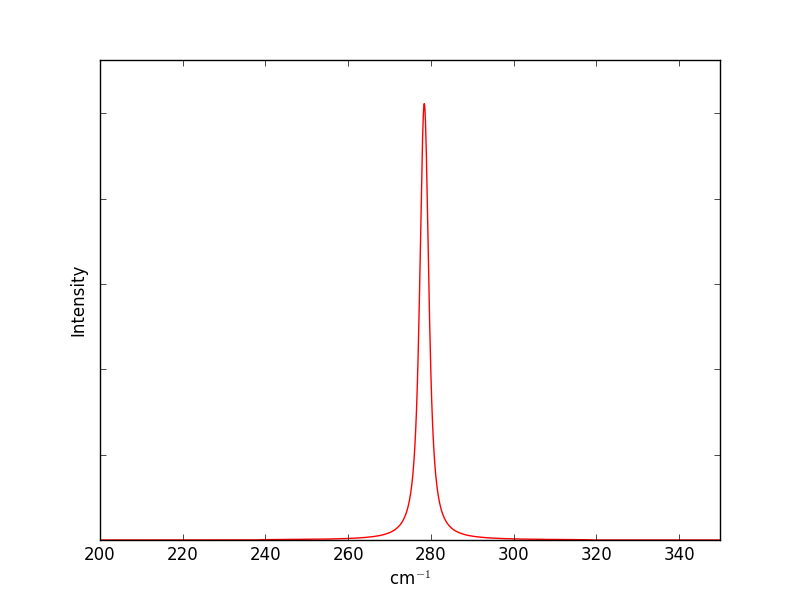
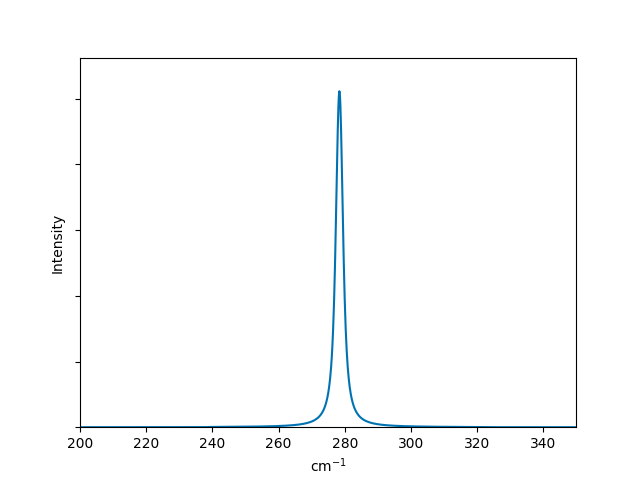
ENH: Allow user to select matplotlib style

diff --git a/galore/cli/galore.py b/galore/cli/galore.py
@@ -88,6 +88,9 @@ def pdos_from_files(return_plt=False, **kwargs):
     # For plotting and writing, "None" means "write to screen"
     # while False means "do nothing"
     if kwargs['plot'] or kwargs['plot'] is None:
+        if 'style' in kwargs and kwargs['style'] is not None:
+            import matplotlib.pyplot
+            matplotlib.pyplot.style.use(kwargs['style'])
         plt = galore.plot.plot_pdos(pdos_plotting_data,
                                     **kwargs)  # flipx is included in kwargs
 
@@ -154,6 +157,9 @@ def simple_dos_from_files(return_plt=False, **kwargs):
         if not has_matplotlib:
             print("Can't plot, no Matplotlib")
         else:
+            if 'style' in kwargs and kwargs['style'] is not None:
+                import matplotlib.pyplot
+                matplotlib.pyplot.style.use(kwargs['style'])
             plt = galore.plot.plot_tdos(x_values, broadened_data, **kwargs)
             if kwargs['ylabel'] is not None:
                 plt.ylabel(kwargs['ylabel'])
@@ -280,6 +286,11 @@ def get_parser():
         '--ymin', type=float, default=0, help='Minimum y axis value')
     parser.add_argument(
         '--ymax', type=float, default=None, help='Maximum y axis value')
+    parser.add_argument(
+        '--style', type=str, nargs='+', default=['seaborn-colorblind'],
+        help='Plotting style: a sequence of matplotlib styles and paths to '
+             'style files. The default palette is called "seaborn-colorblind".'
+        )
     parser.add_argument(
         '--overlay', type=str, default=None, help='Data file for overlay')
     parser.add_argument(

diff --git a/galore/cli/galore_plot_cs.py b/galore/cli/galore_plot_cs.py
@@ -53,6 +53,11 @@ def get_parser():
                         help="Output filename. If not given, plot to screen.")
     parser.add_argument('--fontsize', type=int, default=12,
                         help="Font size in pt")
+    parser.add_argument(
+        '--style', type=str, nargs='+', default=['seaborn-colorblind'],
+        help='Plotting style: a sequence of matplotlib styles and paths to '
+             'style files. The default palette is called "seaborn-colorblind".'
+        )
     parser.add_argument('elements', type=str, nargs='+', help="""
         Space-separated symbols for elements in material.""")
 
@@ -60,9 +65,12 @@ def get_parser():
 
 
 def run(elements, emin=1, emax=10, megabarn=False, size=None, output=None,
-        fontsize=10):
+        fontsize=10, style=None):
     energies = np.linspace(emin, emax, 200)
     cross_sections = get_cross_sections_scofield(energies, elements)
+
+    if style is not None:
+        plt.style.use(style)
 
     if size is None:
         fig = plt.figure()

diff --git a/galore/plot.py b/galore/plot.py
@@ -129,7 +129,6 @@ def plot_pdos(pdos_data, ax=None, total=True, show_orbitals=True,
     max_y = 0
 
     if ax is None:
-        plt.style.use("seaborn-colorblind")
         fig = plt.figure()
         ax = fig.add_subplot(1, 1, 1)
 
@@ -205,8 +204,6 @@ def plot_tdos(xdata, ydata, filename=None, ax=None, **kwargs):
     # Any unset kwargs will be seen as None
     kwargs = defaultdict((lambda: None), **kwargs)
 
-    plt.style.use("seaborn-colorblind")
-
     if ax:
         pass
     else:
@@ -216,7 +213,7 @@ def plot_tdos(xdata, ydata, filename=None, ax=None, **kwargs):
     if kwargs['flipx']:
         xdata = -xdata
 
-    ax.plot(xdata, ydata, 'r-')
+    ax.plot(xdata, ydata, 'C0-')
     ax.set_xlim([min(xdata), max(xdata)])
 
     xlabel = guess_xlabel(units=kwargs['units'], flipx=kwargs['flipx'])

diff --git a/docs/source/tutorials.rst b/docs/source/tutorials.rst
@@ -99,13 +99,16 @@ same way as before:
 
 .. code-block:: bash
 
-    galore test/CaF2/raman_lda_500.dat -g -l -k --plot --units cm-1 --ylabel Intensity
+    galore test/CaF2/raman_lda_500.dat -g -l -k --plot --units cm-1 --ylabel Intensity --style Solarized_Light2
 
 .. image:: figures/raman_lda_500.png
            :alt: Simulated Raman plot for CaF2
            :align: center
            :scale: 50%
 
+This time we set an alternative appearance style with ``--style Solarized_Light2``.
+Galore uses Matplotlib styles, and you can use inbuilt styles or create custom stylesheets.
+The ``dark_background`` style may be useful for slide presentations.
 Note that for the same material we are seeing a single peak again, but
 at a different frequency to the IR plot. This is not a shift; the peak
 at 280 cm\ `-1`:sup: is still present but has zero activity, while the

diff --git a/CHANGELOG.rst b/CHANGELOG.rst
@@ -7,6 +7,11 @@ Versioning <http://semver.org/>`__. The changelog format is inspired by
 
 `Unreleased <https://github.com/smtg-ucl/galore/compare/0.5.1...HEAD>`__
 -------------------------------------------------------------------------
+- Matplotlib styling is exposed to the user: ``--style`` option selects CLI style
+  while Python API does not overrule existing style.
+- The default TDOS line colour is now the first colour from the
+  selected style, which is usually blue. The previous default was a
+  bright red.
 
 `[0.5.1] <https://github.com/smtg-ucl/galore/compare/0.5.0...0.5.1>`__ - 2018-05-03
 -----------------------------------------------------------------------------------
